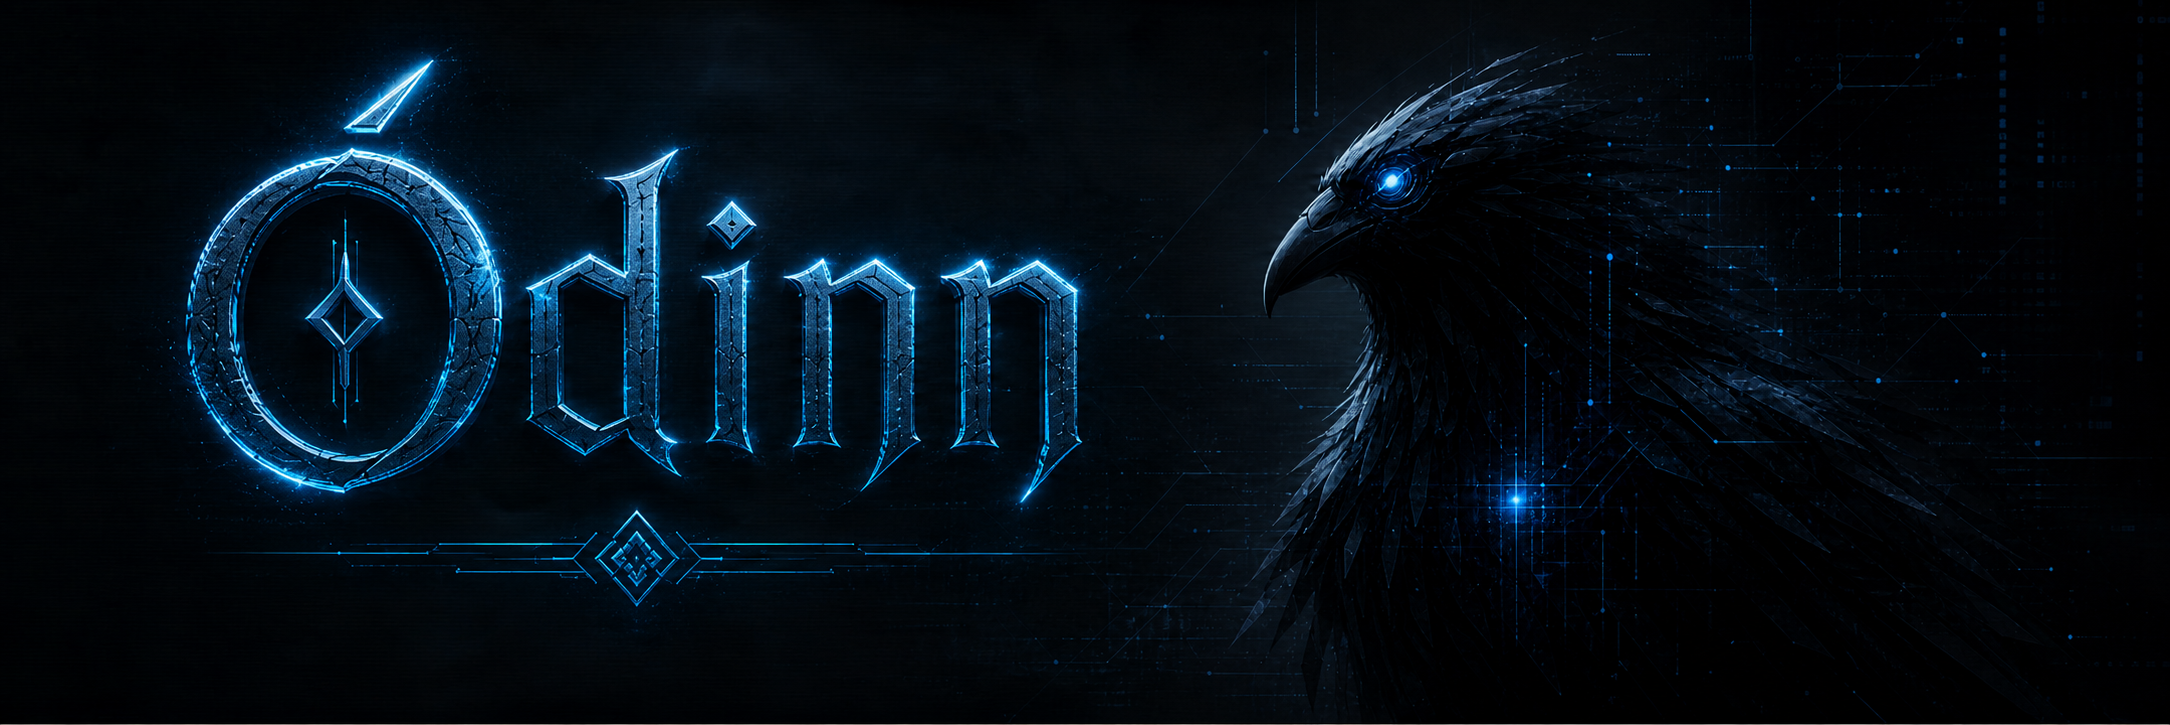
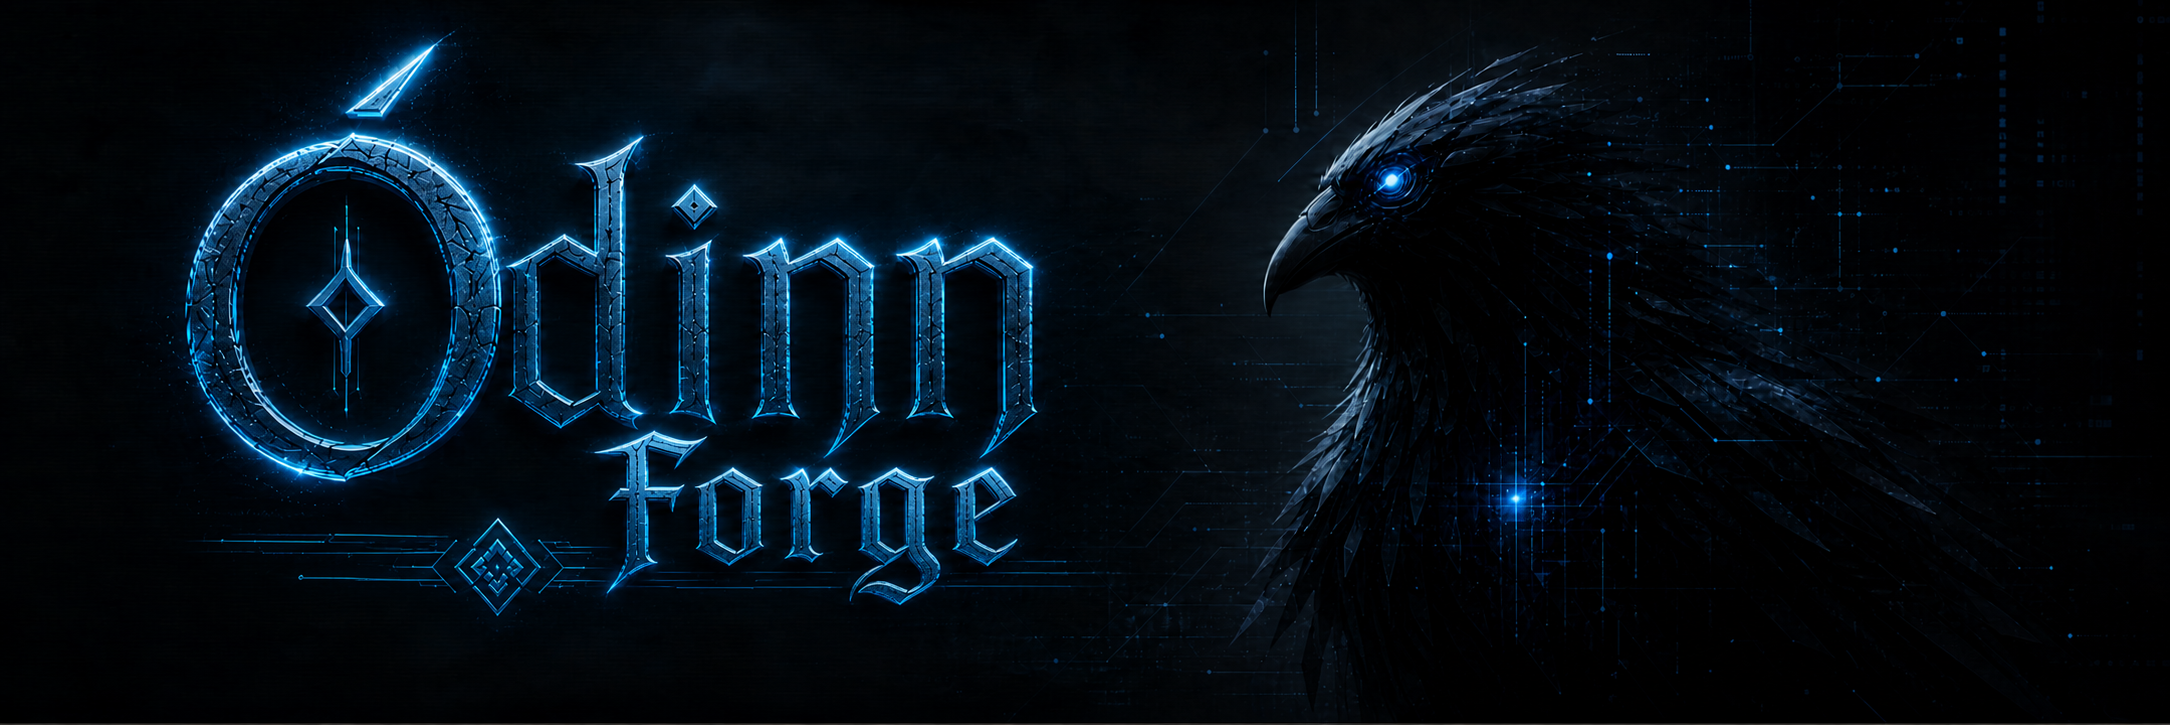
brand: rename project to Odinn Forge (#20)

diff --git a/README.md b/README.md
@@ -1,16 +1,16 @@
-# Ódinn
+# Ódinn Forge
 
-![Ódinn — local-first agent runtime](docs/odinn-header.png)
+![Ódinn Forge — local-first agent runtime](docs/odinn-header.png)
 
 > A local-first personal AI agent runtime with durable memory, model freedom, real-world tools, and security controls that make dangerous choices explicit.
 
-Ódinn is a cross-platform agent runtime for people who want an assistant that can do more than generate text without turning the machine into an unattended blast radius. It provides the kernel, policy layer, model/provider adapters, browser and web capabilities, sessions, audit trails, and a chat-first local console in one small Node.js workspace.
+Ódinn Forge is a cross-platform agent runtime for people who want an assistant that can do more than generate text without turning the machine into an unattended blast radius. It provides the kernel, policy layer, model/provider adapters, browser and web capabilities, sessions, audit trails, and a chat-first local console in one small Node.js workspace.
 
-The project is a clean-room implementation. It does not copy OpenClaw, Hermes, OpenViking, or any other agent framework. It takes architectural inspiration from the problems those projects solve and implements Ódinn's own contracts, storage, and security model.
+The project is a clean-room implementation. It does not copy OpenClaw, Hermes, OpenViking, or any other agent framework. It takes architectural inspiration from the problems those projects solve and implements Ódinn Forge's own contracts, storage, and security model.
 
 ## Beta status
 
-Ódinn is an initial local beta. The core loop is usable:
+Ódinn Forge is an initial local beta. The core loop is usable:
 
 - chat with configured models through API keys, OAuth, imported OAuth sessions, local servers, or CLI adapters;
 - recall durable user and project context across sessions;
@@ -105,9 +105,9 @@ Local models work without a cloud account:
 pnpm odinn onboard --provider ollama --model <installed-model>
 ```
 
-Ódinn does not assume a particular local model. Pass the model name already served by your Ollama instance.
+Ódinn Forge does not assume a particular local model. Pass the model name already served by your Ollama instance.
 
-Ódinn also includes URL-free presets for OpenRouter, Groq, Together, Mistral, DeepSeek, xAI, Moonshot, Fireworks, Cerebras, Cohere, DeepInfra, NVIDIA, Z.ai, Qianfan, Volcengine, Xiaomi, Hugging Face, Venice, Chutes, LiteLLM, vLLM, SGLang, LM Studio, GitHub Copilot, xAI device OAuth, and Antigravity.
+Ódinn Forge also includes URL-free presets for OpenRouter, Groq, Together, Mistral, DeepSeek, xAI, Moonshot, Fireworks, Cerebras, Cohere, DeepInfra, NVIDIA, Z.ai, Qianfan, Volcengine, Xiaomi, Hugging Face, Venice, Chutes, LiteLLM, vLLM, SGLang, LM Studio, GitHub Copilot, xAI device OAuth, and Antigravity.
 
 Inspect the catalog with:
 
@@ -134,7 +134,7 @@ Gateway API clients bootstrap a per-state bearer token by requesting `/` once, w
 
 ## Memory
 
-Ódinn's memory is an original local context system built around an append-only journal and explicit provenance. It is not a proprietary database clone and does not depend on a closed memory service.
+Ódinn Forge's memory is an original local context system built around an append-only journal and explicit provenance. It is not a proprietary database clone and does not depend on a closed memory service.
 
 The current memory spine provides:
 
@@ -173,7 +173,7 @@ The memory layer is deliberately transparent: inspect the journal, inspect the r
 
 Public web access is available through `web.search` and `web.fetch`.
 
-Private-account access uses Ódinn's isolated persistent browser profile. The user logs in manually; Ódinn does not silently extract cookies from another browser. Browser reads are available to the agent, while clicks, typing, and keypresses require approval by default.
+Private-account access uses Ódinn Forge's isolated persistent browser profile. The user logs in manually; Ódinn Forge does not silently extract cookies from another browser. Browser reads are available to the agent, while clicks, typing, and keypresses require approval by default.
 
 Security controls are configurable:
 
@@ -202,7 +202,7 @@ pnpm odinn extension disable --id example-tool
 pnpm odinn extension rollback --id example-tool
 ```
 
-Only explicitly trusted `process` extensions can execute. Tool extensions use Ódinn's JSONL call contract; MCP extensions use a JSON-RPC `tools/call` JSONL contract. Container execution, unsandboxed execution, automatic installation, and implicit trust are not enabled by this beta.
+Only explicitly trusted `process` extensions can execute. Tool extensions use Ódinn Forge's JSONL call contract; MCP extensions use a JSON-RPC `tools/call` JSONL contract. Container execution, unsandboxed execution, automatic installation, and implicit trust are not enabled by this beta.
 
 ## Architecture
 

diff --git a/SECURITY.md b/SECURITY.md
@@ -2,7 +2,7 @@
 
 ## Supported versions
 
-Until Odinn reaches a stable 1.0 release, security fixes are applied only to the latest commit on `main` and the newest published prerelease.
+Until Odinn Forge reaches a stable 1.0 release, security fixes are applied only to the latest commit on `main` and the newest published prerelease.
 
 ## Reporting a vulnerability
 
@@ -21,7 +21,7 @@ Reports will be acknowledged as soon as practical. Disclosure timing will be coo
 
 ## Security boundaries
 
-Ódinn's beta has explicit capability boundaries, append-only audit events, restart-safe approval and browser-recovery claims, isolated task workers, isolated browser profiles, durable stores, and a loopback-only default control plane. Remote hosting is a separate opt-in service that requires TLS and gives every provisioned user an independent gateway and state/workspace boundary.
+Ódinn Forge's beta has explicit capability boundaries, append-only audit events, restart-safe approval and browser-recovery claims, isolated task workers, isolated browser profiles, durable stores, and a loopback-only default control plane. Remote hosting is a separate opt-in service that requires TLS and gives every provisioned user an independent gateway and state/workspace boundary.
 
 Before the first stable release:
 
@@ -64,7 +64,7 @@ Proof is evidence-based: model text cannot set `verified`. Sentinel decisions ar
 - The local operator controls the config, provider credentials, browser login, and approval decisions.
 - Model output and imported skills are untrusted input; they cannot bypass the kernel policy evaluator.
 - Extension and MCP manifests are metadata, not trust. They are disabled by default, require provenance review, and receive only explicit capability grants when enabled. The process adapter validates the entrypoint stays inside the configured workspace, launches without a shell, enforces a timeout, and rejects disabled, untrusted, ungranted, container, and unsandboxed execution.
-- Public web content is untrusted data and may contain prompt injection. Ódinn must not treat page instructions as operator authorization.
+- Public web content is untrusted data and may contain prompt injection. Ódinn Forge must not treat page instructions as operator authorization.
 - State directories are repaired to `0700` and sensitive JSON/JSONL records to `0600` when the gateway opens them. Idempotency keys are bound to a canonical request hash; reusing a key with different content returns `409`.
 - Browser read access is not action authorization. An external side effect requires the approval gate unless the operator explicitly disables it.
 - The single-user gateway remains loopback-only. Remote deployment uses `host.mjs`; non-loopback startup fails without a certificate, key, and exact public origin. Passwords are scrypt-derived, sessions are signed, cookies are HttpOnly/SameSite=Strict/Secure under TLS, and tenants never share state roots or gateway bearer tokens.

diff --git a/CHANGELOG.md b/CHANGELOG.md
@@ -1,6 +1,6 @@
 # Changelog
 
-All notable changes to Odinn will be documented in this file.
+All notable changes to Odinn Forge will be documented in this file.
 
 The format is based on Keep a Changelog, and releases use Semantic Versioning.
 
@@ -8,4 +8,4 @@ The format is based on Keep a Changelog, and releases use Semantic Versioning.
 
 ### Added
 
-- Initial Odinn repository and cross-platform CI/CD foundation.
+- Initial Odinn Forge repository and cross-platform CI/CD foundation.

diff --git a/CONTRIBUTING.md b/CONTRIBUTING.md
@@ -1,6 +1,6 @@
-# Contributing to Odinn
+# Contributing to Odinn Forge
 
-Odinn is early-stage infrastructure. Changes should preserve cross-platform behavior, explicit security boundaries, durable state transitions, and a small understandable core.
+Odinn Forge is early-stage infrastructure. Changes should preserve cross-platform behavior, explicit security boundaries, durable state transitions, and a small understandable core.
 
 ## Development setup
 

diff --git a/docs/ci-cd.md b/docs/ci-cd.md
@@ -1,6 +1,6 @@
-# Odinn CI/CD
+# Odinn Forge CI/CD
 
-Odinn uses separate workflows for correctness, security, scheduled verification, version management, and release publication. A green release requires every required workflow to succeed independently.
+Odinn Forge uses separate workflows for correctness, security, scheduled verification, version management, and release publication. A green release requires every required workflow to succeed independently.
 
 ## Workflows
 

diff --git a/docs/features/counterfactual.md b/docs/features/counterfactual.md
@@ -1,4 +1,4 @@
-# Odinn Counterfactual
+# Odinn Forge Counterfactual
 
 Counterfactual branches copy a workspace into separate sibling worktrees and create independent run records, ledger relationships, and candidate plans. The source workspace is not modified by branch creation.
 
@@ -9,4 +9,4 @@ odinn counterfactual compare <group-id>
 odinn counterfactual select <group-id> --run <candidate-run-id> --apply
 ```
 
-An executable plan contains a bounded `tasks` array of ordinary Odinn task objects and may include a Proof contract. Read-only tasks may set `readOnly: true`; Ódinn then issues a one-use, candidate-bound read capability. Mutating tasks must carry an explicitly approved capability token. `--execute` runs each candidate independently through the normal audited tool boundary, then runs the candidate contract when present. Plans without `--execute` remain dry-run branch creation only. Selection is also a dry-run unless `--apply` is supplied; applying replaces only files outside `.git`, `.odinn`, and `.odinn-worktrees`, with a temporary source backup for recovery. Irreversible external actions remain approval-gated and are not silently made safe by branching.
+An executable plan contains a bounded `tasks` array of ordinary Odinn Forge task objects and may include a Proof contract. Read-only tasks may set `readOnly: true`; Ódinn Forge then issues a one-use, candidate-bound read capability. Mutating tasks must carry an explicitly approved capability token. `--execute` runs each candidate independently through the normal audited tool boundary, then runs the candidate contract when present. Plans without `--execute` remain dry-run branch creation only. Selection is also a dry-run unless `--apply` is supplied; applying replaces only files outside `.git`, `.odinn`, and `.odinn-worktrees`, with a temporary source backup for recovery. Irreversible external actions remain approval-gated and are not silently made safe by branching.

diff --git a/docs/features/self-improvement.md b/docs/features/self-improvement.md
@@ -1,6 +1,6 @@
-# Ódinn self-improvement
+# Ódinn Forge self-improvement
 
-Ódinn includes a configurable autonomous evidence loop. It observes signed audit history, groups repeated failures, creates deduplicated proposals, and can apply allowlisted runtime tuning without waiting for a human decision.
+Ódinn Forge includes a configurable autonomous evidence loop. It observes signed audit history, groups repeated failures, creates deduplicated proposals, and can apply allowlisted runtime tuning without waiting for a human decision.
 
 The default remains review-gated:
 

diff --git a/.github/pull_request_template.md b/.github/pull_request_template.md
@@ -1,6 +1,6 @@
 ## Summary
 
-Describe the behavior changed and why it belongs in Odinn.
+Describe the behavior changed and why it belongs in Odinn Forge.
 
 ## Verification
 

diff --git a/docs/P0-BETA-GATES.md b/docs/P0-BETA-GATES.md
@@ -1,6 +1,6 @@
 # P0 beta gates
 
-This is the release ledger for the Ódinn beta. A checked item has code and regression coverage. The default remains local and single-user; remote multi-user operation is an explicit TLS-only host mode.
+This is the release ledger for the Ódinn Forge beta. A checked item has code and regression coverage. The default remains local and single-user; remote multi-user operation is an explicit TLS-only host mode.
 
 ## Current state
 

diff --git a/docs/architecture/event-ledger.md b/docs/architecture/event-ledger.md
@@ -1,4 +1,4 @@
-# Ódinn runtime event ledger
+# Ódinn Forge runtime event ledger
 
 The event ledger is the durable runtime spine used by the experimental Proof, Rewind, Sentinel, Capsule, Darwin, Capability, and Counterfactual features. Each remote-host tenant receives an independent state root and ledger.
 

diff --git a/docs/features/capability-tokens.md b/docs/features/capability-tokens.md
@@ -1,4 +1,4 @@
-# Odinn Capability Tokens
+# Odinn Forge Capability Tokens
 
 Capability tokens bind one short-lived operation to a run, step, tool, resource constraints, and a use count. The signing key is local-only with restrictive permissions. Raw credentials are never placed in token claims, ledger payloads, or normal CLI output.
 

diff --git a/docs/features/capsules.md b/docs/features/capsules.md
@@ -1,4 +1,4 @@
-# Odinn Capsule
+# Odinn Forge Capsule
 
 Capsules are ZIP-compatible, redacted run bundles containing the manifest, run record, events, environment metadata, verification results, snapshot index, referenced content-addressed artifacts, optional contract/policy, and checksums. Secrets are represented only as redaction categories; credentials are not exported.
 